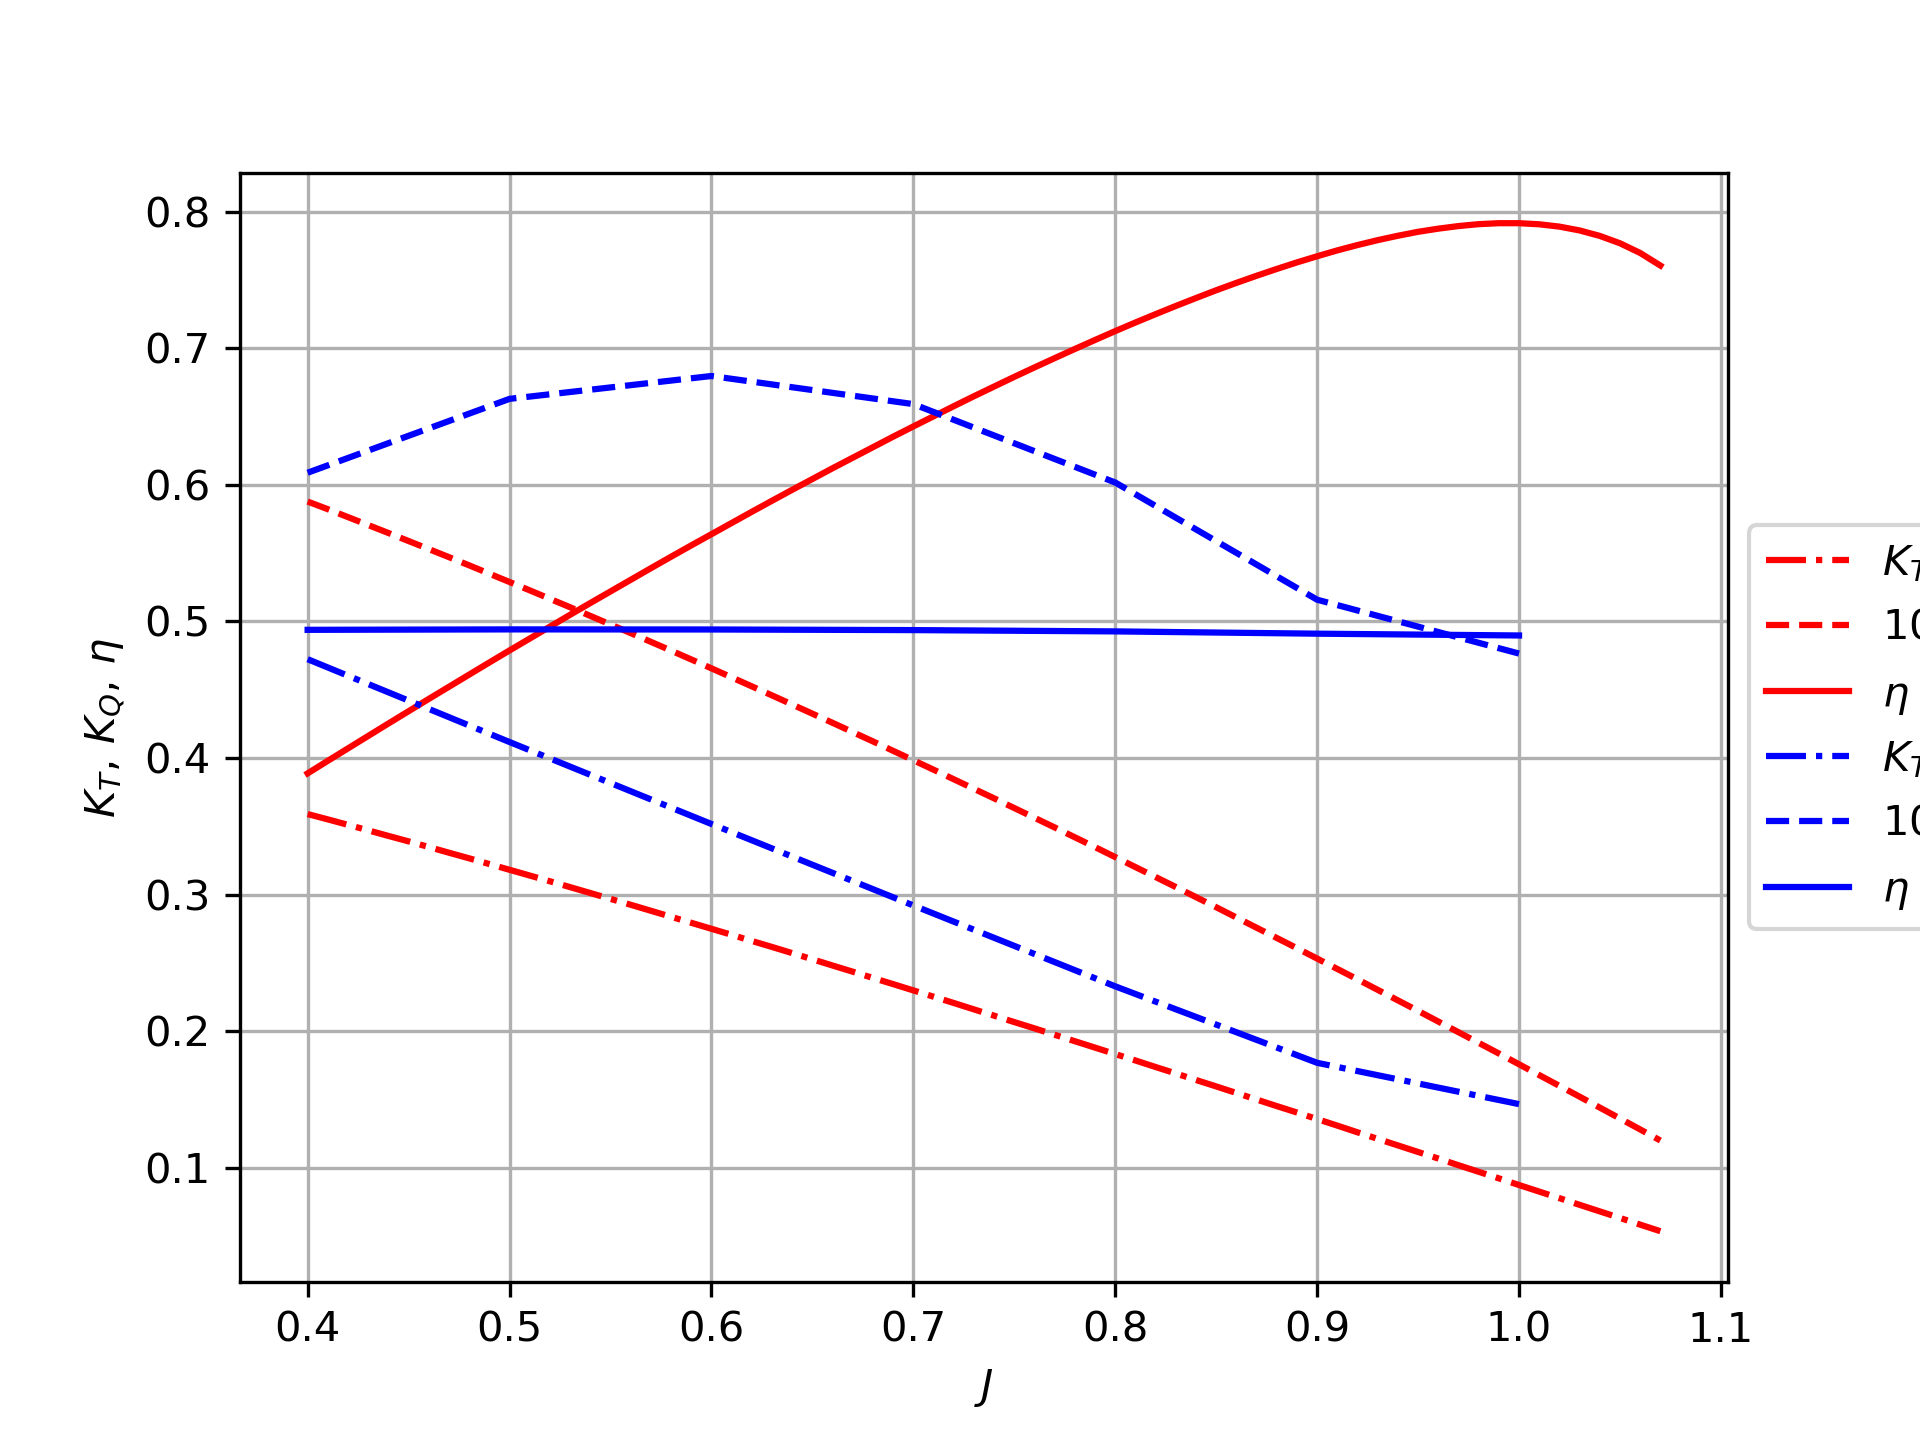
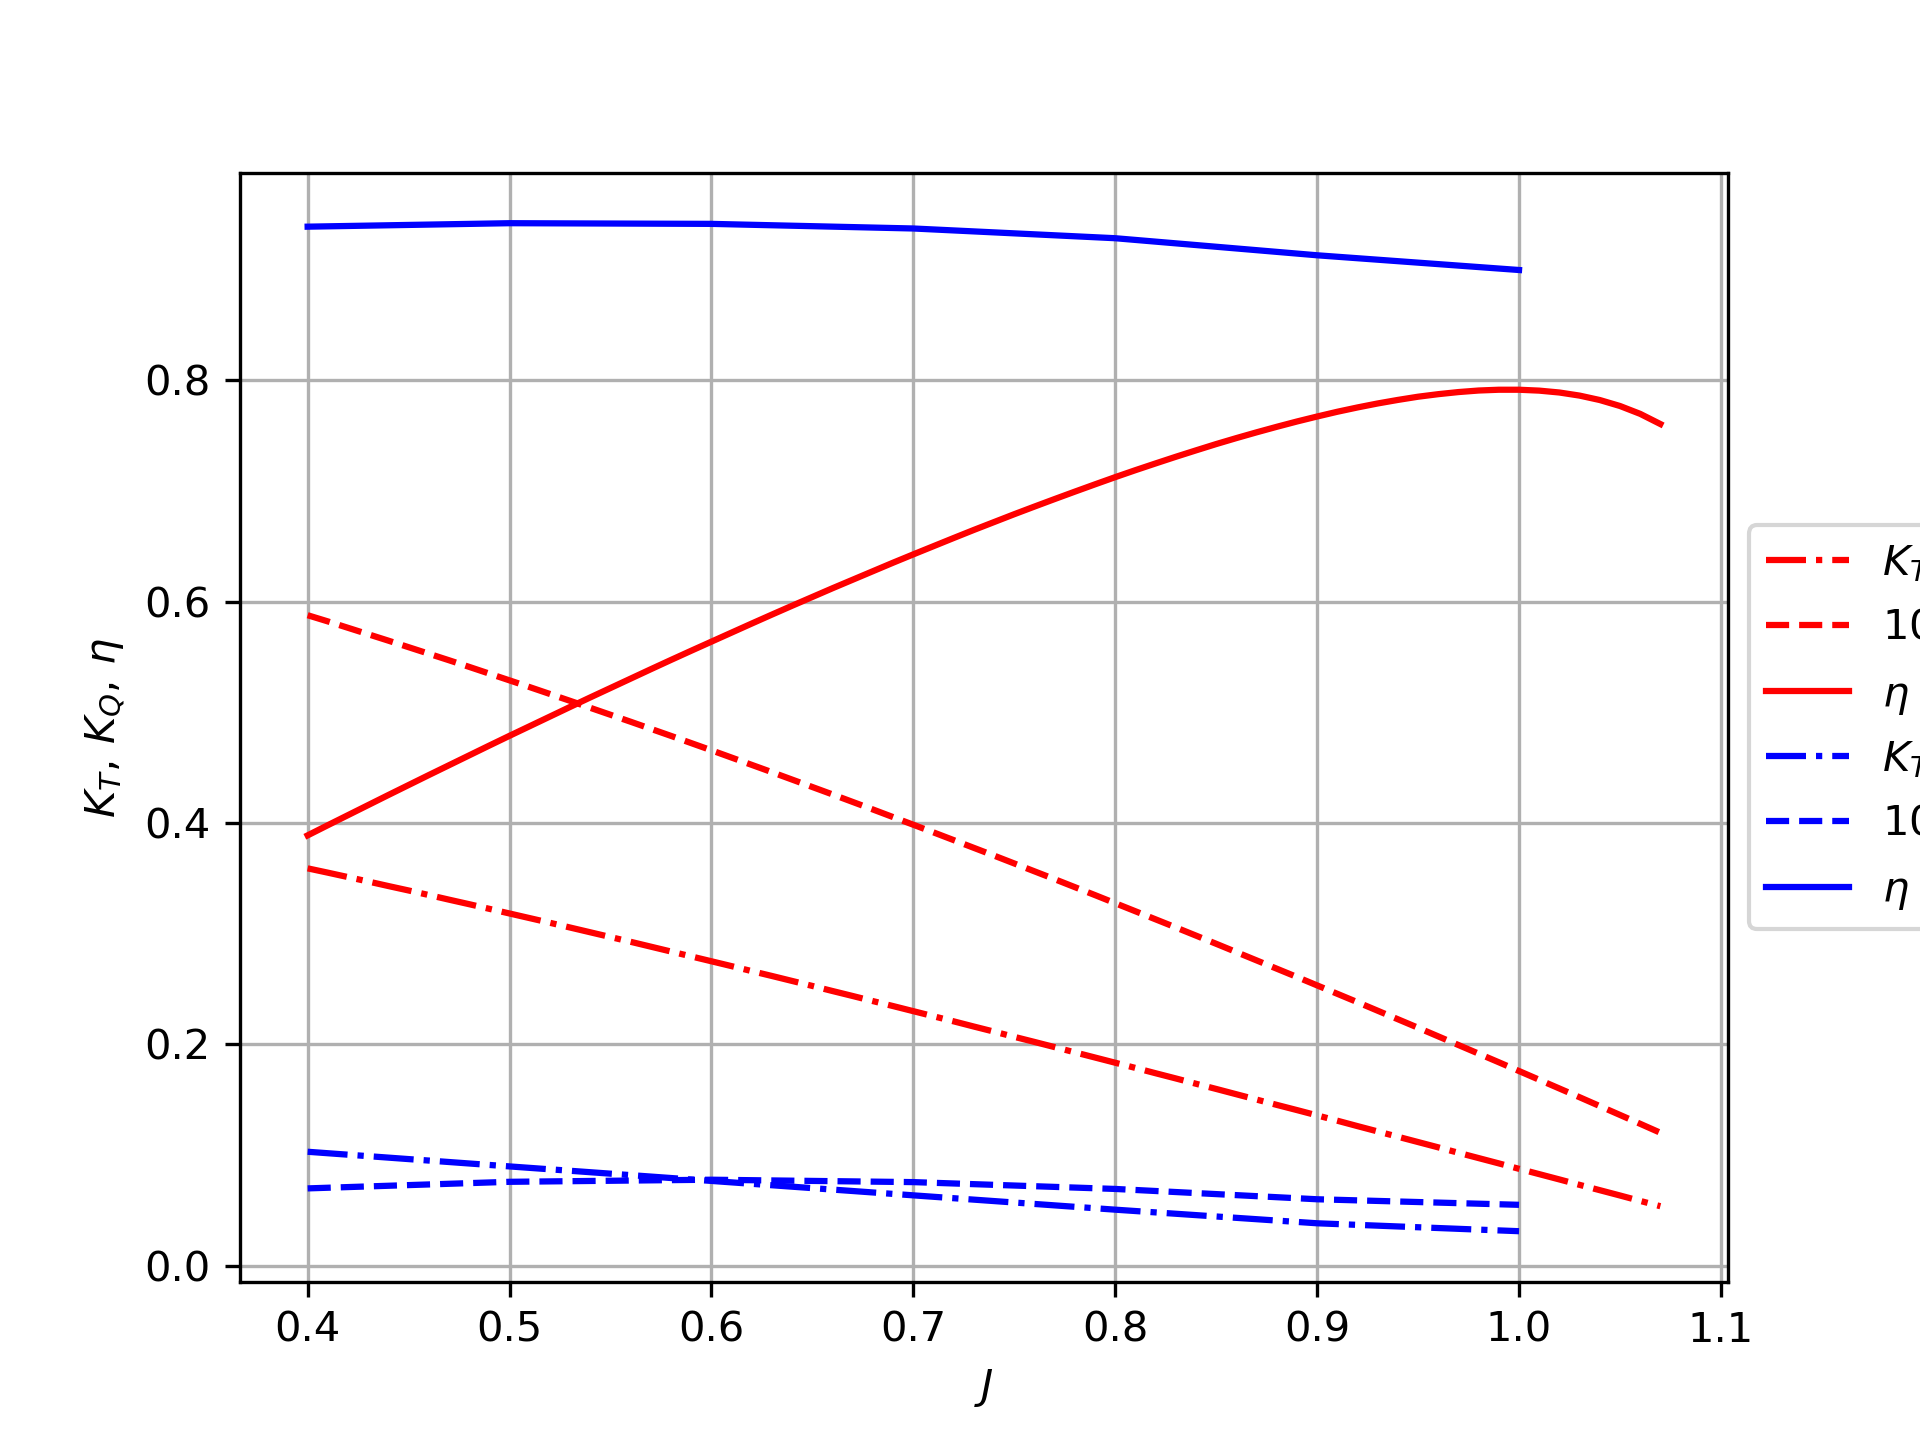
debug trial

diff --git a/lifting_line.py b/lifting_line.py
@@ -93,7 +93,7 @@ def cl_from_a0(a: float, section):
 
 def cl_from_xfoil(a: float, cl_a, section: int):
     cl = np.interp(rad_to_deg(a), cl_a[section, :, 0], cl_a[section, :, 1])
-    print(rad_to_deg(a), cl)
+    #print(rad_to_deg(a), cl)
     return cl
 
 # n and V from Reynolds and j?
@@ -123,7 +123,7 @@ def cd_ittc(v_inf: float, prop: Propeller, water: Fluid, section: int):
 
 def dr_section(prop: Propeller, section: int):
     if section == len(prop.geo.r_R) - 2:
-        return (prop.geo.r_R[section + 1] - prop.geo.r_R[section])*prop.char.d/2.
+        return (prop.geo.r_R[section + 1] - prop.geo.r_R[section-1])*3./4.*prop.char.d/2.
     if section == 0:
         return (prop.geo.r_R[section+1] - prop.geo.r_R[section])/2.*prop.char.d/2.
     return ((prop.geo.r_R[section+1] - prop.geo.r_R[section])/2. + (prop.geo.r_R[section] - prop.geo.r_R[section-1])/2.)*prop.char.d/2.
@@ -154,31 +154,37 @@ def q2():
     rn07, water, prop, j, cl_a = setup()
 
     n, v = n_v_from_j_rn(j, rn07, water, prop)
-
+    
     T = np.zeros(len(n))
     Q = np.zeros(len(n))
+    r = 0   #debug
     # Iterate through the blade sections
     for section in range(len(prop.geo.r_R)-1):
         beta = beta_mean(n, v, prop, section)
         aoa_ = aoa(beta, prop, section)
         #Fixed value of a0 for test purpose
         #cl = cl_from_a0(aoa_, section)
-        cl = cl_from_xfoil(aoa_, cl_a, section)
+        cl = cl_from_xfoil(aoa_, cl_a, section)/5.
         v_inf = np.sqrt(v**2 + (prop.geo.r_R[section]*prop.char.d*pi*n)**2)
         #print(section, rn(v_inf, prop.geo.c_d[section]*prop.char.d, water.kin_visc))
         cd = cd_ittc(v_inf, prop, water, section)
+        print(cl, cd)
         dr = dr_section(prop, section)
+        #print(dr)
+        r+= dr  #debug
         dD = water.density/2.*v_inf**2*cd*prop.geo.c_d[section]*prop.char.d*dr
         dL = water.density/2.*v_inf**2*cl*prop.geo.c_d[section]*prop.char.d*dr
-        
+        #print(dL, dD)
         dT = dL*np.cos(beta) - dD*np.sin(beta)
-        dQ = prop.geo.r_R[section]*prop.char.d*(dL*np.sin(beta) + dD*np.cos(beta))
+        dQ = prop.geo.r_R[section]*prop.char.d*(dL*np.sin(beta) + dD*np.cos(beta))/2.
         T += dT
         Q += dQ
         
     kt = T /(water.density * n**2 * prop.char.d**4)
     kq = Q /(water.density * n**2 * prop.char.d**5)
     eta = kt*j/(kq*2*pi)
+    
+    print(r, prop.char.d*(1-prop.geo.r_R[0])/2.)
     
     export('q2.txt', j, kt, kq, eta)
 
